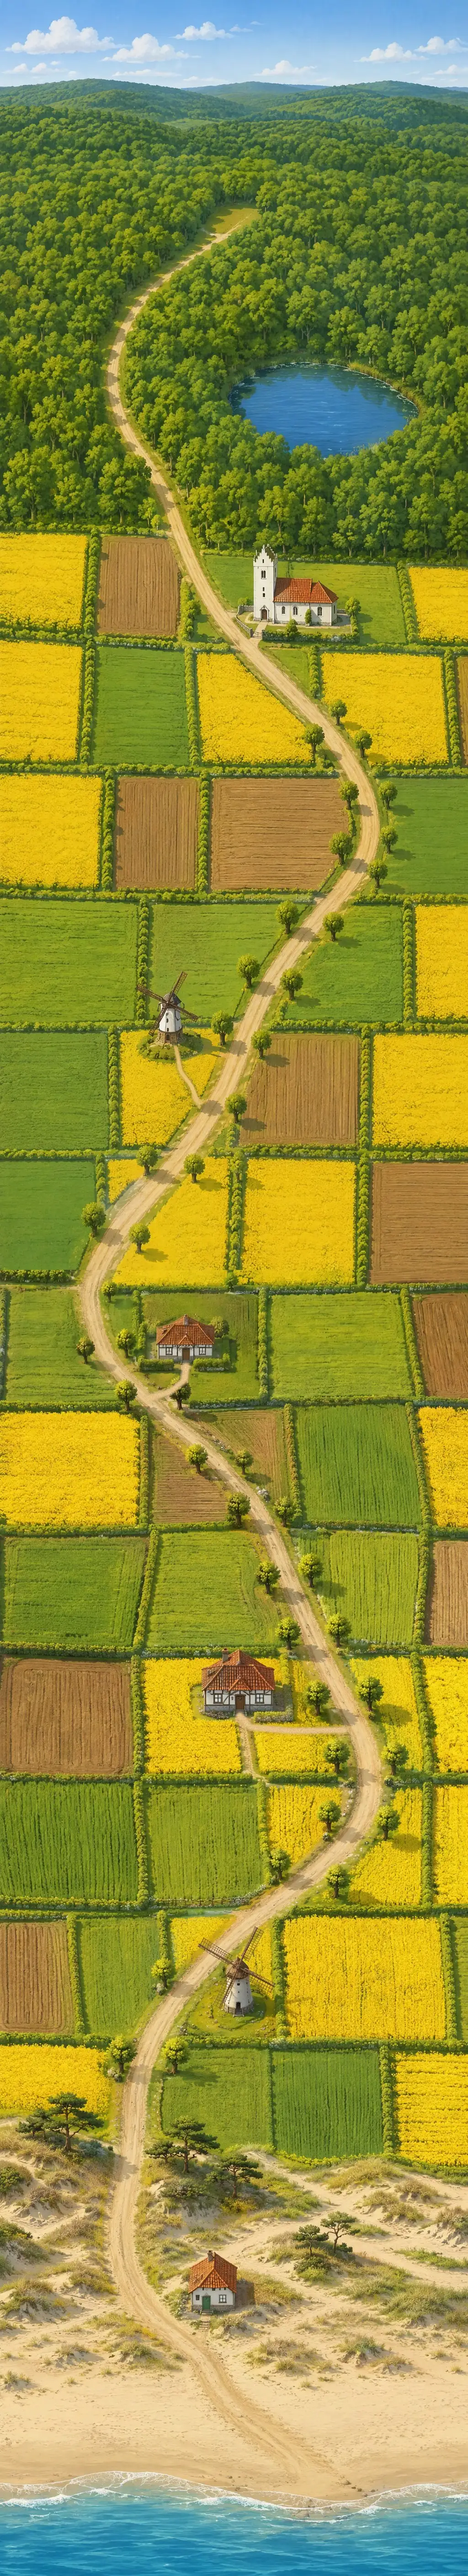
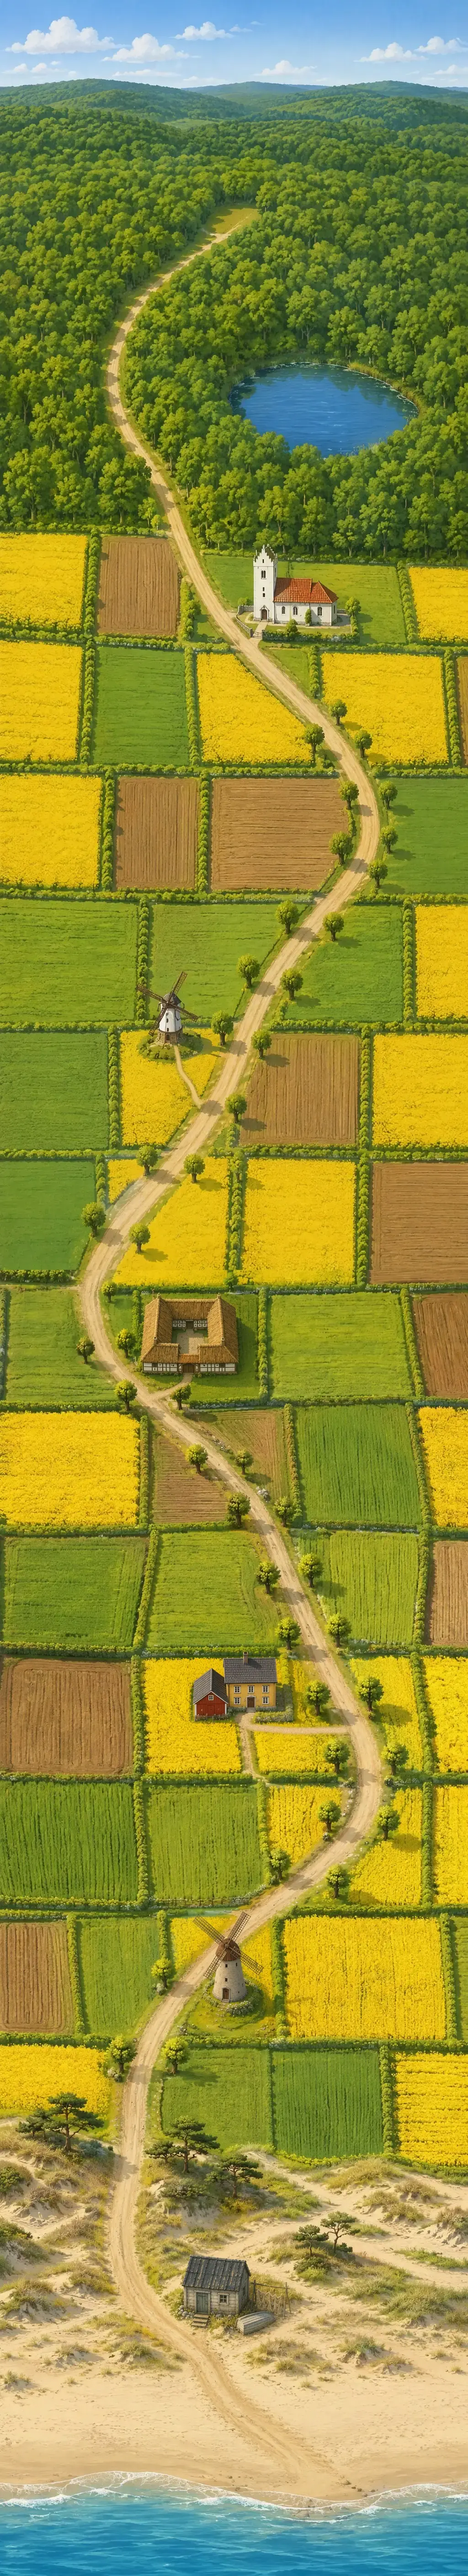
Vary the buildings of the plain: three different farms on the map, one picture per neighbour village
Claude-Session: https://claude.ai/code/session_01NPdWPVubb9eTXTbeodyqoi

diff --git a/src/ui/NeighboursView.svelte b/src/ui/NeighboursView.svelte
@@ -54,7 +54,7 @@
       {#each list as n (n.id)}
         {@const owned = $exp.owned.find((o) => o.id === n.id)}
         <li class:owned={!!owned}>
-          <img class="thumb" src={`/art/neighbours/world${n.world}.webp`} width="64" height="48" alt="" loading="lazy" />
+          <img class="thumb" src={n.world === 2 ? `/art/neighbours/${n.id}.webp` : `/art/neighbours/world${n.world}.webp`} width="64" height="48" alt="" loading="lazy" />
           {#if owned}
             {@const st = storeView(owned)}
             <div>
